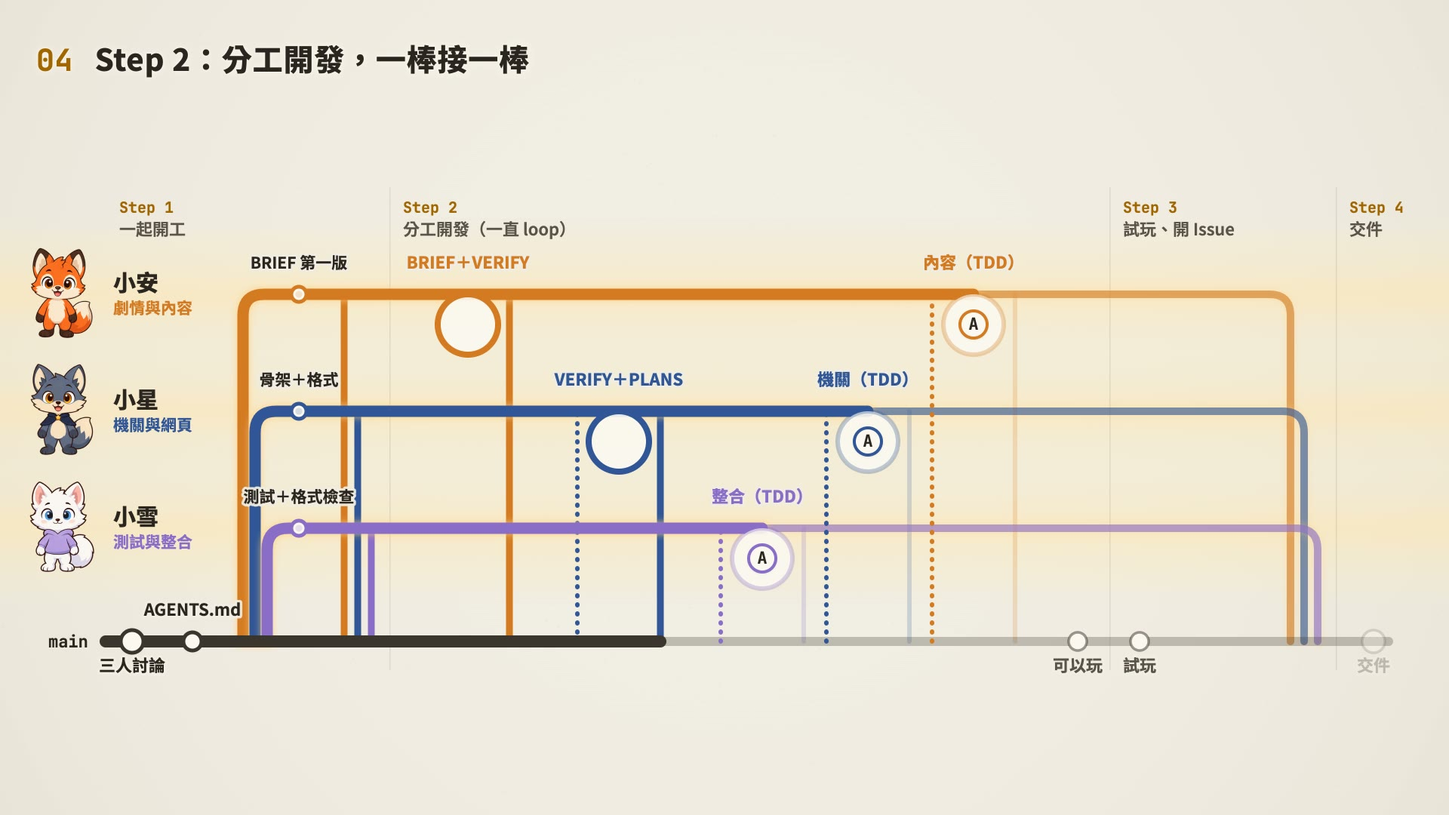
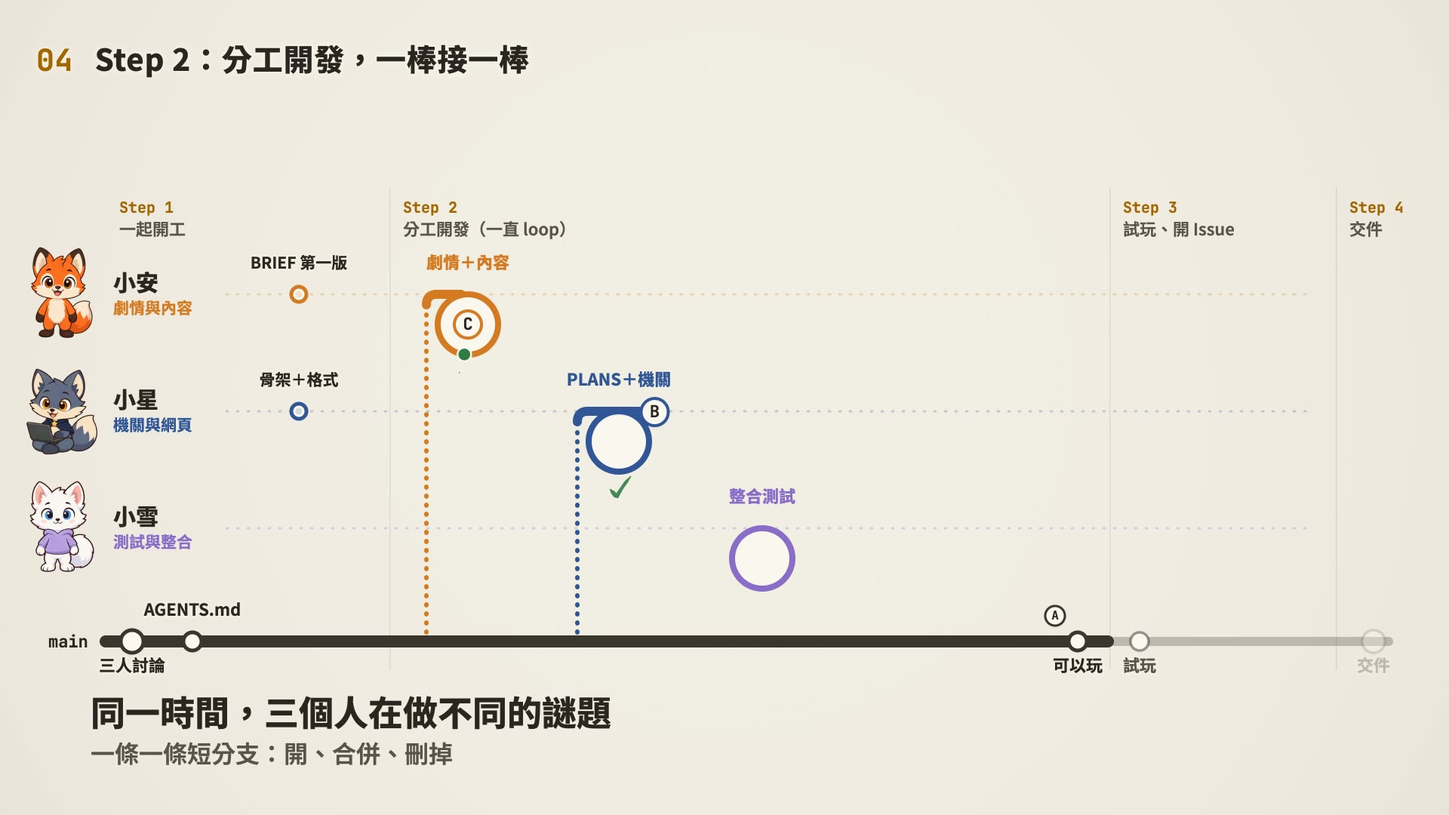
Week 8 video 04 Midterm Briefing, version 8 (6:48, Chinese): one short branch per task. Each person's line is now only a faint position line; a branch is drawn only while work is going on (pull main, open a branch, PR, check, merge, delete the branch) and fades out after its merge. Step 1 is told sl

Changed region(s): [[0.0, 0.3056, 1.0, 0.825], [0.0625, 0.8556, 0.4375, 0.9472]]

diff --git a/weeks/week08/index.html b/weeks/week08/index.html
@@ -245,17 +245,20 @@
       <ol class="chapters" aria-label="影片片段（點了直接跳到那一段）" data-ui-attr="aria-label:video.chapters">
         <li><button type="button" data-t="0"><span class="k">00:00</span><span class="t" data-i18n data-zh-hans="开场" data-en="Opening" data-vi="Mở đầu">開場</span></button></li>
         <li><button type="button" data-t="5"><span class="k">00:05</span><span class="t" data-i18n data-zh-hans="先看整张图" data-en="The whole map first" data-vi="Xem toàn bộ bản đồ trước">先看整張圖</span></button></li>
-        <li><button type="button" data-t="37"><span class="k">00:37</span><span class="t" data-i18n data-zh-hans="三个人、三份职责" data-en="Three people, three roles" data-vi="Ba người, ba vai trò">三個人、三份職責</span></button></li>
-        <li><button type="button" data-t="84"><span class="k">01:24</span><span class="t" data-i18n data-zh-hans="Step 1：一起开工" data-en="Step 1: Start together" data-vi="Bước 1: Cùng bắt đầu">Step 1：一起開工</span></button></li>
-        <li><button type="button" data-t="144"><span class="k">02:24</span><span class="t" data-i18n data-zh-hans="Step 2：一道谜题交棒三次" data-en="Step 2: Each puzzle is handed on three times" data-vi="Bước 2: Mỗi câu đố được chuyển tay ba lần">Step 2：一道謎題交棒三次</span></button></li>
-        <li><button type="button" data-t="178"><span class="k">02:58</span><span class="t" data-i18n data-zh-hans="第 3 棒：三人同时，各写自己的 TESTS" data-en="Leg 3: all three at once, each with their own TESTS" data-vi="Chặng 3: cả ba cùng lúc, mỗi người một phần TESTS">第 3 棒：三人同時，各寫自己的 TESTS</span></button></li>
-        <li><button type="button" data-t="196"><span class="k">03:16</span><span class="t" data-i18n data-zh-hans="小安的 TDD：内容也测得到" data-en="Xiao An’s TDD: content can be tested too" data-vi="TDD của Tiểu An: nội dung cũng kiểm thử được">小安的 TDD：內容也測得到</span></button></li>
-        <li><button type="button" data-t="243"><span class="k">04:03</span><span class="t" data-i18n data-zh-hans="小雪怎么审别人的程序" data-en="How Xiao Xue reviews other people’s code" data-vi="Tiểu Tuyết duyệt code của người khác thế nào">小雪怎麼審別人的程式</span></button></li>
-        <li><button type="button" data-t="279"><span class="k">04:39</span><span class="t" data-i18n data-zh-hans="Step 3：试玩、开 Issue" data-en="Step 3: Playtest and open issues" data-vi="Bước 3: Chơi thử, mở Issue">Step 3：試玩、開 Issue</span></button></li>
-        <li><button type="button" data-t="306"><span class="k">05:06</span><span class="t" data-i18n data-zh-hans="bug：谁的东西谁修" data-en="Bugs: the owner fixes them" data-vi="Lỗi: phần của ai người đó sửa">bug：誰的東西誰修</span></button></li>
-        <li><button type="button" data-t="340"><span class="k">05:40</span><span class="t" data-i18n data-zh-hans="Step 4：交件" data-en="Step 4: Hand it in" data-vi="Bước 4: Nộp bài">Step 4：交件</span></button></li>
-        <li><button type="button" data-t="354"><span class="k">05:54</span><span class="t" data-i18n data-zh-hans="老师怎么看你的贡献" data-en="How the teacher sees your contribution" data-vi="Giáo viên xem đóng góp của bạn thế nào">老師怎麼看你的貢獻</span></button></li>
-        <li><button type="button" data-t="374"><span class="k">06:14</span><span class="t" data-i18n data-zh-hans="结尾" data-en="Wrap-up" data-vi="Kết">結尾</span></button></li>
+        <li><button type="button" data-t="30"><span class="k">00:30</span><span class="t" data-i18n data-zh-hans="三个人、三份职责" data-en="Three people, three roles" data-vi="Ba người, ba vai trò">三個人、三份職責</span></button></li>
+        <li><button type="button" data-t="79"><span class="k">01:19</span><span class="t" data-i18n data-zh-hans="Step 1：一起开工" data-en="Step 1: Start together" data-vi="Bước 1: Cùng bắt đầu">Step 1：一起開工</span></button></li>
+        <li><button type="button" data-t="133"><span class="k">02:13</span><span class="t" data-i18n data-zh-hans="合并后删分支，把 main 拉回电脑" data-en="Delete the branches after merging, pull main back" data-vi="Merge xong thì xóa nhánh, kéo main về máy">合併後刪分支，把 main 拉回電腦</span></button></li>
+        <li><button type="button" data-t="148"><span class="k">02:28</span><span class="t" data-i18n data-zh-hans="Step 2：一棒接一棒，每一棒同一个节奏" data-en="Step 2: One leg after another, each with the same rhythm" data-vi="Bước 2: Từng chặng nối nhau, chặng nào cũng cùng một nhịp">Step 2：一棒接一棒，每一棒同一個節奏</span></button></li>
+        <li><button type="button" data-t="159"><span class="k">02:39</span><span class="t" data-i18n data-zh-hans="第 1 棒：小安，剧情＋内容" data-en="Leg 1: Xiao An, story and content" data-vi="Chặng 1: Tiểu An, cốt truyện và nội dung">第 1 棒：小安，劇情＋內容</span></button></li>
+        <li><button type="button" data-t="189"><span class="k">03:09</span><span class="t" data-i18n data-zh-hans="第 2 棒：小星，PLANS＋机关" data-en="Leg 2: Xiao Xing, PLANS and mechanisms" data-vi="Chặng 2: Tiểu Tinh, PLANS và cơ chế">第 2 棒：小星，PLANS＋機關</span></button></li>
+        <li><button type="button" data-t="208"><span class="k">03:28</span><span class="t" data-i18n data-zh-hans="第 3 棒：小雪，整合测试" data-en="Leg 3: Xiao Xue, the integration test" data-vi="Chặng 3: Tiểu Tuyết, kiểm thử tích hợp">第 3 棒：小雪，整合測試</span></button></li>
+        <li><button type="button" data-t="211"><span class="k">03:31</span><span class="t" data-i18n data-zh-hans="整合测试没通过：Issue、修好、把 main 拉进分支" data-en="When the integration test fails: issue, fix, pull main into the branch" data-vi="Kiểm thử tích hợp không qua: Issue, sửa, kéo main vào nhánh">整合測試沒通過：Issue、修好、把 main 拉進分支</span></button></li>
+        <li><button type="button" data-t="269"><span class="k">04:29</span><span class="t" data-i18n data-zh-hans="小雪怎么审别人的程序" data-en="How Xiao Xue reviews other people’s code" data-vi="Tiểu Tuyết duyệt code của người khác thế nào">小雪怎麼審別人的程式</span></button></li>
+        <li><button type="button" data-t="304"><span class="k">05:04</span><span class="t" data-i18n data-zh-hans="Step 3：试玩、开 Issue" data-en="Step 3: Playtest and open issues" data-vi="Bước 3: Chơi thử, mở Issue">Step 3：試玩、開 Issue</span></button></li>
+        <li><button type="button" data-t="332"><span class="k">05:32</span><span class="t" data-i18n data-zh-hans="bug：谁的东西谁修" data-en="Bugs: the owner fixes them" data-vi="Lỗi: phần của ai người đó sửa">bug：誰的東西誰修</span></button></li>
+        <li><button type="button" data-t="366"><span class="k">06:06</span><span class="t" data-i18n data-zh-hans="Step 4：交件" data-en="Step 4: Hand it in" data-vi="Bước 4: Nộp bài">Step 4：交件</span></button></li>
+        <li><button type="button" data-t="380"><span class="k">06:20</span><span class="t" data-i18n data-zh-hans="老师怎么看你的贡献" data-en="How the teacher sees your contribution" data-vi="Giáo viên xem đóng góp của bạn thế nào">老師怎麼看你的貢獻</span></button></li>
+        <li><button type="button" data-t="400"><span class="k">06:40</span><span class="t" data-i18n data-zh-hans="结尾" data-en="Wrap-up" data-vi="Kết">結尾</span></button></li>
       </ol>
 
       <ol class="points">
@@ -264,17 +267,17 @@
           data-en="&lt;strong&gt;Three people, three roles, one line each.&lt;/strong&gt; 小安 Xiao An: story and content (&lt;code&gt;BRIEF.md&lt;/code&gt;, the “Puzzles and story” sections of &lt;code&gt;VERIFY.md&lt;/code&gt; and &lt;code&gt;TESTS.md&lt;/code&gt;, &lt;code&gt;content/&lt;/code&gt;, &lt;code&gt;assets/&lt;/code&gt;); 小星 Xiao Xing: mechanisms and web page (the “Web page and mechanisms” sections of VERIFY and TESTS, &lt;code&gt;PLANS.md&lt;/code&gt;, &lt;code&gt;game/&lt;/code&gt;); 小雪 Xiao Xue: testing and integration (&lt;code&gt;AGENTS.md&lt;/code&gt;, &lt;code&gt;README.md&lt;/code&gt;, the “Integration” section of TESTS, the integration test)."
           data-vi="&lt;strong&gt;Ba người, ba vai trò, mỗi người một tuyến.&lt;/strong&gt; 小安 Tiểu An: cốt truyện và nội dung (&lt;code&gt;BRIEF.md&lt;/code&gt;, phần “Câu đố và cốt truyện” trong &lt;code&gt;VERIFY.md&lt;/code&gt; và &lt;code&gt;TESTS.md&lt;/code&gt;, &lt;code&gt;content/&lt;/code&gt;, &lt;code&gt;assets/&lt;/code&gt;); 小星 Tiểu Tinh: cơ chế và trang web (phần “Trang web và cơ chế” trong VERIFY và TESTS, &lt;code&gt;PLANS.md&lt;/code&gt;, &lt;code&gt;game/&lt;/code&gt;); 小雪 Tiểu Tuyết: kiểm thử và tích hợp (&lt;code&gt;AGENTS.md&lt;/code&gt;, &lt;code&gt;README.md&lt;/code&gt;, phần “Tích hợp” trong TESTS, kiểm thử tích hợp)."><strong>三個人、三份職責，每個人一條線。</strong>小安：劇情與內容（<code>BRIEF.md</code>，<code>VERIFY.md</code> 和 <code>TESTS.md</code> 的「謎題與劇情」段，<code>content/</code>、<code>assets/</code>）；小星：機關與網頁（VERIFY 和 TESTS 的「網頁與機關」段，<code>PLANS.md</code>，<code>game/</code>）；小雪：測試與整合（<code>AGENTS.md</code>、<code>README.md</code>，TESTS 的「整合」段，整合測試）。</p></li>
         <li><p data-i18n
-          data-zh-hans="&lt;strong&gt;整套只有三条规则。&lt;/strong&gt;自己的文件，在自己的线上写；写完开 PR，小雪检查过才合并（她只看、不写；小雪自己的 PR 由小星检查）；发现 bug，小雪只开 Issue，谁的东西谁修。"
-          data-en="&lt;strong&gt;The whole thing is three rules.&lt;/strong&gt; Write your own files on your own line; when you are done, open a PR, and it is merged only after Xiao Xue checks it (she only looks and never writes; Xiao Xing checks her own PRs); when a bug turns up, Xiao Xue only opens an issue, and whoever owns that part fixes it."
-          data-vi="&lt;strong&gt;Cả quy trình chỉ có ba quy tắc.&lt;/strong&gt; Tệp của mình thì viết trên tuyến của mình; làm xong thì mở PR, Tiểu Tuyết kiểm tra rồi mới merge (cô ấy chỉ xem, không viết; PR của Tiểu Tuyết do Tiểu Tinh kiểm tra); phát hiện lỗi thì Tiểu Tuyết chỉ mở Issue, phần của ai người đó sửa."><strong>整套只有三條規則。</strong>自己的檔案，在自己的線上寫；寫完開 PR，小雪檢查過才合併（她只看、不寫；小雪自己的 PR 由小星檢查）；發現 bug，小雪只開 Issue，誰的東西誰修。</p></li>
+          data-zh-hans="&lt;strong&gt;整套只有三条规则。&lt;/strong&gt;自己的文件，在自己的线上写；写完开 PR，小雪检查过才合并（她只看、不写；小雪自己的 PR 由小安检查）；发现 bug，小雪只开 Issue，谁的东西谁修。"
+          data-en="&lt;strong&gt;The whole thing is three rules.&lt;/strong&gt; Write your own files on your own line; when you are done, open a PR, and it is merged only after Xiao Xue checks it (she only looks and never writes; Xiao An checks her own PRs); when a bug turns up, Xiao Xue only opens an issue, and whoever owns that part fixes it."
+          data-vi="&lt;strong&gt;Cả quy trình chỉ có ba quy tắc.&lt;/strong&gt; Tệp của mình thì viết trên tuyến của mình; làm xong thì mở PR, Tiểu Tuyết kiểm tra rồi mới merge (cô ấy chỉ xem, không viết; PR của Tiểu Tuyết do Tiểu An kiểm tra); phát hiện lỗi thì Tiểu Tuyết chỉ mở Issue, phần của ai người đó sửa."><strong>整套只有三條規則。</strong>自己的檔案，在自己的線上寫；寫完開 PR，小雪檢查過才合併（她只看、不寫；小雪自己的 PR 由小安檢查）；發現 bug，小雪只開 Issue，誰的東西誰修。</p></li>
         <li><p data-i18n
-          data-zh-hans="&lt;strong&gt;一道谜题交棒三次。&lt;/strong&gt;小安写 BRIEF 和 VERIFY → 小星写 VERIFY 和 PLANS（每一步标上谁做）→ 三个人同时做。每一棒都从最新的 main 开始，做完开 PR 接回 main；大家同时在做不同的谜题，不用等来等去。每次上课开头 5 分钟，每人说三句话。"
-          data-en="&lt;strong&gt;Each puzzle is handed on three times.&lt;/strong&gt; Xiao An writes BRIEF and VERIFY → Xiao Xing writes VERIFY and PLANS (every step says who does it) → all three work at once. Every leg starts from the latest main and comes back to main through a PR; everyone works on different puzzles at the same time, so nobody waits. Start each class with five minutes: three sentences each."
-          data-vi="&lt;strong&gt;Mỗi câu đố được chuyển tay ba lần.&lt;/strong&gt; Tiểu An viết BRIEF và VERIFY → Tiểu Tinh viết VERIFY và PLANS (mỗi bước ghi rõ ai làm) → cả ba cùng làm. Chặng nào cũng bắt đầu từ main mới nhất và quay về main qua PR; mọi người làm các câu đố khác nhau cùng lúc nên không phải chờ nhau. Đầu mỗi buổi học dành 5 phút, mỗi người nói ba câu."><strong>一道謎題交棒三次。</strong>小安寫 BRIEF 和 VERIFY → 小星寫 VERIFY 和 PLANS（每一步標上誰做）→ 三個人同時做。每一棒都從最新的 main 開始，做完開 PR 接回 main；大家同時在做不同的謎題，不用等來等去。每次上課開頭 5 分鐘，每人說三句話。</p></li>
+          data-zh-hans="&lt;strong&gt;一件事一条短分支，每一棒同一个节奏。&lt;/strong&gt;拉 main → 开分支 → 做 → PR → 检查 → 合并 → 删分支。建 repo 时勾“Automatically delete head branches”，合并后 GitHub 自动删掉分支；删掉的只是名字，做好的东西已经在 main 里。Step 1 小安、小星同时打地基，小雪只检查、不开分支；之后一道谜题一棒接一棒：小安 → 小星 → 小雪。大家同时在做不同的谜题，不用等来等去。每次上课开头 5 分钟，每人说三句话。"
+          data-en="&lt;strong&gt;One short branch per task, the same rhythm every leg.&lt;/strong&gt; Pull main → open a branch → do the work → PR → check → merge → delete the branch. Tick “Automatically delete head branches” when you create the repo and GitHub deletes each branch once it is merged; only the name goes, the work is already in main. In Step 1 Xiao An and Xiao Xing lay the groundwork at the same time, while Xiao Xue only checks and opens no branch; after that each puzzle goes leg by leg: Xiao An → Xiao Xing → Xiao Xue. Everyone works on different puzzles at once, so nobody waits. Start each class with five minutes: three sentences each."
+          data-vi="&lt;strong&gt;Mỗi việc một nhánh ngắn, chặng nào cũng cùng một nhịp.&lt;/strong&gt; Kéo main → mở nhánh → làm → PR → kiểm tra → merge → xóa nhánh. Khi tạo repo, đánh dấu “Automatically delete head branches” để GitHub tự xóa nhánh sau khi merge; chỉ mất cái tên, phần việc đã nằm trong main. Ở Bước 1, Tiểu An và Tiểu Tinh cùng lúc làm phần nền, Tiểu Tuyết chỉ kiểm tra, không mở nhánh; sau đó mỗi câu đố đi từng chặng: Tiểu An → Tiểu Tinh → Tiểu Tuyết. Mọi người làm các câu đố khác nhau cùng lúc nên không phải chờ nhau. Đầu mỗi buổi học dành 5 phút, mỗi người nói ba câu."><strong>一件事一條短分支，每一棒同一個節奏。</strong>拉 main → 開分支 → 做 → PR → 檢查 → 合併 → 刪分支。建 repo 時勾「Automatically delete head branches」，合併後 GitHub 自動刪掉分支；刪掉的只是名字，做好的東西已經在 main 裡。Step 1 小安、小星同時打地基，小雪只檢查、不開分支；之後一道謎題一棒接一棒：小安 → 小星 → 小雪。大家同時在做不同的謎題，不用等來等去。每次上課開頭 5 分鐘，每人說三句話。</p></li>
         <li><p data-i18n
-          data-zh-hans="&lt;strong&gt;每个人都有自己的 TESTS。&lt;/strong&gt;&lt;code&gt;TESTS.md&lt;/code&gt; 分三段，和 &lt;code&gt;VERIFY.md&lt;/code&gt; 分两段一样。小安测剧情逻辑（答案推得出来、提示不会泄露答案），小星测机关（指针拖到 3:14 掉出钥匙、重新整理后还在），小雪测整个游戏从醒来玩到逃出。先写自己那段 TESTS，再用 TDD 做；小雪的整合测试最后变绿、最后合并，那一刻谜题就可以玩了。"
-          data-en="&lt;strong&gt;Everyone has their own TESTS.&lt;/strong&gt; &lt;code&gt;TESTS.md&lt;/code&gt; has three sections, just as &lt;code&gt;VERIFY.md&lt;/code&gt; has two. Xiao An tests the story logic (every answer can be worked out; hints never give it away), Xiao Xing tests the mechanisms (dragging the hand to 3:14 drops the key; it is still there after a reload), and Xiao Xue tests the whole game from waking up to escaping. Write your own TESTS section first, then build with TDD; Xiao Xue’s integration test turns green and is merged last, and at that moment the puzzle is playable."
-          data-vi="&lt;strong&gt;Ai cũng có TESTS của riêng mình.&lt;/strong&gt; &lt;code&gt;TESTS.md&lt;/code&gt; chia ba phần, giống &lt;code&gt;VERIFY.md&lt;/code&gt; chia hai phần. Tiểu An kiểm thử logic cốt truyện (đáp án suy ra được, gợi ý không làm lộ đáp án), Tiểu Tinh kiểm thử cơ chế (kéo kim đến 3:14 thì rơi ra chìa khóa; tải lại trang vẫn còn), Tiểu Tuyết kiểm thử cả trò chơi từ lúc tỉnh dậy đến lúc thoát ra. Viết phần TESTS của mình trước rồi làm theo TDD; kiểm thử tích hợp của Tiểu Tuyết chuyển xanh và được merge cuối cùng, lúc đó câu đố chơi được."><strong>每個人都有自己的 TESTS。</strong><code>TESTS.md</code> 分三段，和 <code>VERIFY.md</code> 分兩段一樣。小安測劇情邏輯（答案推得出來、提示不會洩露答案），小星測機關（指針拖到 3:14 掉出鑰匙、重新整理後還在），小雪測整個遊戲從醒來玩到逃出。先寫自己那段 TESTS，再用 TDD 做；小雪的整合測試最後變綠、最後合併，那一刻謎題就可以玩了。</p></li>
+          data-zh-hans="&lt;strong&gt;每个人都有自己的 TESTS。&lt;/strong&gt;&lt;code&gt;TESTS.md&lt;/code&gt; 分三段，和 &lt;code&gt;VERIFY.md&lt;/code&gt; 分两段一样。小安测剧情逻辑（答案推得出来、提示不会泄露答案），小星测机关（指针拖到 3:14 掉出钥匙、重新整理后还在），小雪测整个游戏从醒来玩到逃出。先写自己那段 TESTS，再用 TDD 做。整合测试没通过（例如答案写 0314、时钟送出 3:14：各自都对，接起来不对），小雪不修：分支先留着，开 Issue 给负责的人；修好合并后，她请 Codex 把最新的 main 合并进自己的分支，再跑一次，绿了由小安检查、合并，谜题就可以玩了。"
+          data-en="&lt;strong&gt;Everyone has their own TESTS.&lt;/strong&gt; &lt;code&gt;TESTS.md&lt;/code&gt; has three sections, just as &lt;code&gt;VERIFY.md&lt;/code&gt; has two. Xiao An tests the story logic (every answer can be worked out; hints never give it away), Xiao Xing tests the mechanisms (dragging the hand to 3:14 drops the key; it is still there after a reload), and Xiao Xue tests the whole game from waking up to escaping. Write your own TESTS section first, then build with TDD. If the integration test fails (say the answer is written 0314 but the clock sends 3:14: each part is right, together they are wrong), Xiao Xue does not fix it: she keeps her branch and opens an issue for the owner; once the fix is merged she has Codex merge the latest main into her branch and runs it again, and when it is green Xiao An checks and merges it, and the puzzle is playable."
+          data-vi="&lt;strong&gt;Ai cũng có TESTS của riêng mình.&lt;/strong&gt; &lt;code&gt;TESTS.md&lt;/code&gt; chia ba phần, giống &lt;code&gt;VERIFY.md&lt;/code&gt; chia hai phần. Tiểu An kiểm thử logic cốt truyện (đáp án suy ra được, gợi ý không làm lộ đáp án), Tiểu Tinh kiểm thử cơ chế (kéo kim đến 3:14 thì rơi ra chìa khóa; tải lại trang vẫn còn), Tiểu Tuyết kiểm thử cả trò chơi từ lúc tỉnh dậy đến lúc thoát ra. Viết phần TESTS của mình trước rồi làm theo TDD. Nếu kiểm thử tích hợp không qua (ví dụ đáp án ghi 0314 nhưng đồng hồ gửi 3:14: từng phần đều đúng, ghép lại thì sai), Tiểu Tuyết không tự sửa: cô giữ nhánh lại và mở Issue cho người phụ trách; sửa xong và merge rồi, cô nhờ Codex merge main mới nhất vào nhánh của mình rồi chạy lại; xanh rồi thì Tiểu An kiểm tra, merge, và câu đố chơi được."><strong>每個人都有自己的 TESTS。</strong><code>TESTS.md</code> 分三段，和 <code>VERIFY.md</code> 分兩段一樣。小安測劇情邏輯（答案推得出來、提示不會洩露答案），小星測機關（指針拖到 3:14 掉出鑰匙、重新整理後還在），小雪測整個遊戲從醒來玩到逃出。先寫自己那段 TESTS，再用 TDD 做。整合測試沒通過（例如答案寫 0314、時鐘送出 3:14：各自都對，接起來不對），小雪不修：分支先留著，開 Issue 給負責的人；修好合併後，她請 Codex 把最新的 main 合併進自己的分支，再跑一次，綠了由小安檢查、合併，謎題就可以玩了。</p></li>
         <li><p data-i18n
           data-zh-hans="&lt;strong&gt;试玩、修 bug、交件。&lt;/strong&gt;小安主持试玩，记在 &lt;code&gt;PLAYTEST.md&lt;/code&gt;；小雪开 Issue（在哪里、做了什么、应该怎样、实际怎样、截图），指派给负责的人；负责的人先补一条抓得到它的测试，修好，PR 写 &lt;code&gt;Fixes #12&lt;/code&gt;。最后交 repo 链接：README（怎么玩、试玩链接、分工表）、GitHub Pages、&lt;code&gt;CREDITS.md&lt;/code&gt;。老师照每个人负责的文件和 PR 看贡献。"
           data-en="&lt;strong&gt;Playtest, fix bugs, hand it in.&lt;/strong&gt; Xiao An hosts the playtest and records it in &lt;code&gt;PLAYTEST.md&lt;/code&gt;; Xiao Xue opens issues (where, what you did, what should happen, what happened, a screenshot) and assigns each to the owner, who first adds a test that catches the bug, then fixes it and writes &lt;code&gt;Fixes #12&lt;/code&gt; in the PR. Finally hand in the repo link: README (how to play, playtest link, who did what), GitHub Pages and &lt;code&gt;CREDITS.md&lt;/code&gt;. The teacher judges each person by the files and PRs they own."

diff --git a/assets/course.js b/assets/course.js
@@ -231,22 +231,22 @@
       still: "weeks/week08/video/01-tests/poster.jpg",
       thumbEn: "weeks/week08/video/01-tests/thumb-en.jpg",
       stillEn: "weeks/week08/video/01-tests/poster-en.jpg",
-      meta: "4 支影片＋2 支補充・共 23 分 19 秒",
+      meta: "4 支影片＋2 支補充・共 23 分 45 秒",
       i18n: {
         "zh-Hans": {
           title: "把测试做扎实：更贴近业界的测试方式 TESTS.md",
           summary: "VERIFY 是验收；TESTS.md 由 AI 从每一条展开成细部测试（边界、没想到的情况、组合、顺序、回归），每一条都追得回来，你用三个问题审。测试全部通过，就代表测得好吗？故意把程序弄坏一行，看测试抓不抓得到。最后照着用户故事亲自玩一遍，找出你和 AI 都没想到的问题。视频 04 说明期中：三个人怎么分工做一间密室。",
-          meta: "4 个视频＋2 个补充・共 23 分 19 秒",
+          meta: "4 个视频＋2 个补充・共 23 分 45 秒",
         },
         en: {
           title: "Making Tests Solid: TESTS.md, Closer to How the Industry Tests",
           summary: "VERIFY is the acceptance check; in TESTS.md the AI expands each item into detailed tests (boundaries, cases nobody thought of, combinations, order, regression), each traceable to its source, and you review it with three questions. If every test passes, are the tests good? Break one line of the program on purpose and see whether the tests catch it. Finally, play it yourself along user stories to find what neither you nor the AI thought of. Video 04 briefs the midterm: how three people split the work on an escape room.",
-          meta: "4 videos + 2 extras · 23 min 19 s in total",
+          meta: "4 videos + 2 extras · 23 min 45 s in total",
         },
         vi: {
           title: "Làm kiểm thử thật chắc: TESTS.md, cách kiểm thử gần với thực tế ngành",
           summary: "VERIFY là nghiệm thu; trong TESTS.md, AI mở rộng mỗi mục thành kiểm thử chi tiết (biên, trường hợp chưa ai nghĩ tới, kết hợp, thứ tự, hồi quy), dòng nào cũng truy được nguồn, và bạn duyệt bằng ba câu hỏi. Kiểm thử qua hết thì có nghĩa là kiểm thử tốt không? Cố ý làm hỏng một dòng code để xem kiểm thử có bắt được không. Cuối cùng, tự tay chơi theo các user story để tìm ra điều cả bạn lẫn AI đều không nghĩ tới. Video 04 hướng dẫn bài giữa kỳ: ba người phân công thế nào để cùng làm một phòng thoát hiểm.",
-          meta: "4 video + 2 bổ sung · tổng cộng 23 phút 19 giây",
+          meta: "4 video + 2 bổ sung · tổng cộng 23 phút 45 giây",
         },
       },
     },

diff --git a/README.md b/README.md
@@ -26,7 +26,7 @@ An open course on working with AI coding agents, hands-on every week<br>
 <table>
 <tr><td><b>Pilot site</b></td><td>National Taiwan Normal University (NTNU), 2026, in the course <i>Learning Analytics Tools Implementation Applications</i></td></tr>
 <tr><td><b>Format</b></td><td>Weekly microlearning videos (1–5 min, one idea each) with chapters, numbered key points and time links; a practice computer in the browser; project-based homework; a scenario-based exam</td></tr>
-<tr><td><b>Published</b></td><td>Weeks 1–8: 37 videos, about 111 minutes (October 2026), updated weekly</td></tr>
+<tr><td><b>Published</b></td><td>Weeks 1–8: 37 videos, about 112 minutes (October 2026), updated weekly</td></tr>
 <tr><td><b>Languages</b></td><td>Site in English, Traditional Chinese, Simplified Chinese and Vietnamese, chosen from the browser's language. Weeks 1–8 are fully in English too: every video, the practice computers and the Week 6 exam</td></tr>
 <tr><td><b>Access</b></td><td>Mac and Windows supported alike; light and dark themes, screen-reader labels, reduced motion. No login, no cookies and no tracking of individuals; watch progress stays in the student's own browser</td></tr>
 <tr><td><b>Licenses</b></td><td>Code <a href="LICENSE">MIT</a>; videos and course content <a href="LICENSE-CONTENT.md">CC BY-NC-SA 4.0</a></td></tr>
@@ -98,7 +98,7 @@ All 29 walking-map sites from the first class are in the [student gallery](https
 | Week 8 | [01 Is VERIFY Enough? TESTS.md](https://ai-agent-literacy.pages.dev/weeks/week08/?lang=en#01-tests) | 3:54 |
 | | [02 Mutation Testing](https://ai-agent-literacy.pages.dev/weeks/week08/?lang=en#02-break) | 2:58 |
 | | [03 Hands-On Testing with User Stories](https://ai-agent-literacy.pages.dev/weeks/week08/?lang=en#03-playtest) | 3:43 |
-| | [04 Midterm Briefing](https://ai-agent-literacy.pages.dev/weeks/week08/?lang=en#04-midterm) (in Chinese) | 6:22 |
+| | [04 Midterm Briefing](https://ai-agent-literacy.pages.dev/weeks/week08/?lang=en#04-midterm) (in Chinese) | 6:48 |
 | | [Extra 1 Branches and Pull Requests: Three People, One Project](https://ai-agent-literacy.pages.dev/weeks/week08/?lang=en#s1-branch-pr) ・ [Extra 2 Writing Up a Bug Clearly: GitHub Issues](https://ai-agent-literacy.pages.dev/weeks/week08/?lang=en#s2-bug-issue) | 3:34 ・ 2:48 |
 
 **Topics covered**: AI coding agents (OpenAI Codex, Claude Code), giving clear instructions, approvals and permission modes, models, tokens and usage, working folders and the terminal, `AGENTS.md` and the context window, the built-in browser, GitHub and Mermaid, verification checklists (`VERIFY.md`), switching models mid-task (GPT-6 Luna → GPT-6.1 Sol), the Codex agent loop and automatic compaction, test-driven development, `PLANS.md` and `TESTS.md`, mutation testing, user stories, branches and pull requests, and GitHub issues.
@@ -174,7 +174,7 @@ Thanks to the students taking the course.
 <table>
 <tr><td><b>首個示範場域</b></td><td>國立臺灣師範大學（2026），課程「學習分析工具」（Learning Analytics Tools Implementation Applications）</td></tr>
 <tr><td><b>形式</b></td><td>每週微學習影片（1–5 分鐘，一支一個概念），附章節、編號重點和時間連結；瀏覽器裡的練習電腦；專題作業；情境式考試</td></tr>
-<tr><td><b>已公開</b></td><td>Week 1–8：37 支影片，約 111 分鐘（2026 年 10 月），每週更新</td></tr>
+<tr><td><b>已公開</b></td><td>Week 1–8：37 支影片，約 112 分鐘（2026 年 10 月），每週更新</td></tr>
 <tr><td><b>語言</b></td><td>網站有英文、繁體中文、簡體中文、越南文，依瀏覽器語言自動選。Week 1–8 另有完整英文版：每支影片、練習電腦、Week 6 考試</td></tr>
 <tr><td><b>無障礙與隱私</b></td><td>Mac 與 Windows 同樣支援；深淺色主題、螢幕閱讀器標示、減少動態效果。不用登入、不用 cookie、不追蹤個人，觀看進度只存在學生自己的瀏覽器</td></tr>
 <tr><td><b>授權</b></td><td>程式 <a href="LICENSE">MIT</a>；影片與教材 <a href="LICENSE-CONTENT.md">CC BY-NC-SA 4.0</a></td></tr>
@@ -235,7 +235,7 @@ Thanks to the students taking the course.
 | Week 8 | [01 VERIFY 就夠了嗎？TESTS.md](https://ai-agent-literacy.pages.dev/weeks/week08/#01-tests) | 3:54 |
 | | [02 突變測試（Mutation Testing）](https://ai-agent-literacy.pages.dev/weeks/week08/#02-break) | 2:58 |
 | | [03 透過 User Story 幫助實測](https://ai-agent-literacy.pages.dev/weeks/week08/#03-playtest) | 3:43 |
-| | [04 期中說明](https://ai-agent-literacy.pages.dev/weeks/week08/#04-midterm) | 6:22 |
+| | [04 期中說明](https://ai-agent-literacy.pages.dev/weeks/week08/#04-midterm) | 6:48 |
 | | [補充 1 分支與 Pull Request：三個人一起改同一個專案](https://ai-agent-literacy.pages.dev/weeks/week08/#s1-branch-pr)・[補充 2 把 bug 寫清楚：GitHub Issue](https://ai-agent-literacy.pages.dev/weeks/week08/#s2-bug-issue) | 3:34・2:48 |
 
 **涵蓋主題**：AI 程式助理（OpenAI Codex、Claude Code）、把事情交代清楚、核准與權限模式、模型與 token 用量、工作資料夾與終端機、`AGENTS.md` 與 context window、內建瀏覽器、GitHub 與 Mermaid、驗證清單（`VERIFY.md`）、做到一半換模型（GPT-6 Luna → GPT-6.1 Sol）、Codex 的 agent loop 與自動壓縮、測試驅動開發、`PLANS.md` 與 `TESTS.md`、突變測試（mutation testing）、user story、分支與 pull request、GitHub issue。
@@ -299,7 +299,7 @@ python -m http.server 8000
 <table>
 <tr><td><b>首个示范场域</b></td><td>台湾师范大学（2026），课程“学习分析工具”（Learning Analytics Tools Implementation Applications）</td></tr>
 <tr><td><b>形式</b></td><td>每周微学习视频（1–5 分钟，一个视频一个概念），附章节、编号要点和时间链接；浏览器里的练习电脑；项目式作业；情境式考试</td></tr>
-<tr><td><b>已公开</b></td><td>Week 1–8：37 个视频，约 111 分钟（2026 年 10 月），每周更新</td></tr>
+<tr><td><b>已公开</b></td><td>Week 1–8：37 个视频，约 112 分钟（2026 年 10 月），每周更新</td></tr>
 <tr><td><b>语言</b></td><td>网站有英文、繁体中文、简体中文、越南文，按浏览器语言自动选择。Week 1–8 另有完整英文版：每个视频、练习电脑、Week 6 考试</td></tr>
 <tr><td><b>无障碍与隐私</b></td><td>Mac 与 Windows 同样支持；深浅色主题、屏幕阅读器标签、减少动态效果。无需登录、不用 cookie、不追踪个人，观看进度只保存在学生自己的浏览器</td></tr>
 <tr><td><b>许可</b></td><td>代码 <a href="LICENSE">MIT</a>；视频与教材 <a href="LICENSE-CONTENT.md">CC BY-NC-SA 4.0</a></td></tr>
@@ -360,7 +360,7 @@ python -m http.server 8000
 | Week 8 | [01 VERIFY 就够了吗？TESTS.md](https://ai-agent-literacy.pages.dev/weeks/week08/?lang=zh-Hans#01-tests) | 3:54 |
 | | [02 突变测试（Mutation Testing）](https://ai-agent-literacy.pages.dev/weeks/week08/?lang=zh-Hans#02-break) | 2:58 |
 | | [03 通过 User Story 帮助实测](https://ai-agent-literacy.pages.dev/weeks/week08/?lang=zh-Hans#03-playtest) | 3:43 |
-| | [04 期中说明](https://ai-agent-literacy.pages.dev/weeks/week08/?lang=zh-Hans#04-midterm) | 6:22 |
+| | [04 期中说明](https://ai-agent-literacy.pages.dev/weeks/week08/?lang=zh-Hans#04-midterm) | 6:48 |
 | | [补充 1 分支与 Pull Request：三个人一起改同一个项目](https://ai-agent-literacy.pages.dev/weeks/week08/?lang=zh-Hans#s1-branch-pr)・[补充 2 把 bug 写清楚：GitHub Issue](https://ai-agent-literacy.pages.dev/weeks/week08/?lang=zh-Hans#s2-bug-issue) | 3:34・2:48 |
 
 **涵盖主题**：AI 编程助手（OpenAI Codex、Claude Code）、把事情交代清楚、批准与权限模式、模型与 token 用量、工作文件夹与终端、`AGENTS.md` 与上下文窗口、内置浏览器、GitHub 与 Mermaid、验证清单（`VERIFY.md`）、做到一半换模型（GPT-6 Luna → GPT-6.1 Sol）、Codex 的 agent loop 与自动压缩、测试驱动开发、`PLANS.md` 与 `TESTS.md`、突变测试（mutation testing）、user story、分支与 pull request、GitHub issue。
@@ -424,7 +424,7 @@ python -m http.server 8000
 <table>
 <tr><td><b>最初の実践の場</b></td><td>国立台湾師範大学（2026 年）、授業「学習分析ツール」（Learning Analytics Tools Implementation Applications）</td></tr>
 <tr><td><b>形式</b></td><td>毎週のマイクロラーニング動画（1〜5 分、1 本にひとつの概念、チャプター・番号つき要点・タイムリンクつき）、ブラウザ上の練習用コンピューター、プロジェクト型の課題、シナリオ型の試験</td></tr>
-<tr><td><b>公開済み</b></td><td>Week 1〜8：動画 37 本、約 111 分（2026 年 10 月時点）、毎週更新</td></tr>
+<tr><td><b>公開済み</b></td><td>Week 1〜8：動画 37 本、約 112 分（2026 年 10 月時点）、毎週更新</td></tr>
 <tr><td><b>言語</b></td><td>サイトは英語・繁体字中国語・簡体字中国語・ベトナム語（日本語は未対応）で、ブラウザの言語で自動選択。Week 1〜8 は動画・練習用コンピュータ・Week 6 の試験まで完全な英語版あり</td></tr>
 <tr><td><b>アクセシビリティとプライバシー</b></td><td>Mac と Windows の両方に同じように対応。ライト／ダークテーマ、スクリーンリーダー用ラベル、動きを減らす設定。ログイン不要、Cookie なし、個人の追跡なし。視聴の進み具合は学生自身のブラウザにだけ保存</td></tr>
 <tr><td><b>ライセンス</b></td><td>コード <a href="LICENSE">MIT</a>、動画と教材 <a href="LICENSE-CONTENT.md">CC BY-NC-SA 4.0</a></td></tr>
@@ -485,7 +485,7 @@ python -m http.server 8000
 | Week 8 | [01 VERIFY だけで十分？TESTS.md](https://ai-agent-literacy.pages.dev/weeks/week08/#01-tests) | 3:54 |
 | | [02 ミューテーションテスト（Mutation Testing）](https://ai-agent-literacy.pages.dev/weeks/week08/#02-break) | 2:58 |
 | | [03 User Story で実際に試す](https://ai-agent-literacy.pages.dev/weeks/week08/#03-playtest) | 3:43 |
-| | [04 中間課題の説明](https://ai-agent-literacy.pages.dev/weeks/week08/#04-midterm)（中国語のみ） | 6:22 |
+| | [04 中間課題の説明](https://ai-agent-literacy.pages.dev/weeks/week08/#04-midterm)（中国語のみ） | 6:48 |
 | | [補足 1 ブランチと Pull Request：3 人で同じプロジェクトを直す](https://ai-agent-literacy.pages.dev/weeks/week08/#s1-branch-pr)・[補足 2 バグをはっきり書く：GitHub Issue](https://ai-agent-literacy.pages.dev/weeks/week08/#s2-bug-issue) | 3:34・2:48 |
 
 **扱うテーマ**：AI コーディングエージェント（OpenAI Codex、Claude Code）、明確な指示の出し方、承認と権限モード、モデルとトークン使用量、作業フォルダとターミナル、`AGENTS.md` とコンテキストウィンドウ、内蔵ブラウザ、GitHub と Mermaid、検証チェックリスト（`VERIFY.md`）、作業途中のモデル切り替え（GPT-6 Luna → GPT-6.1 Sol）、Codex のエージェントループと自動圧縮、テスト駆動開発、`PLANS.md` と `TESTS.md`、ミューテーションテスト、user story、ブランチと pull request、GitHub issue。
